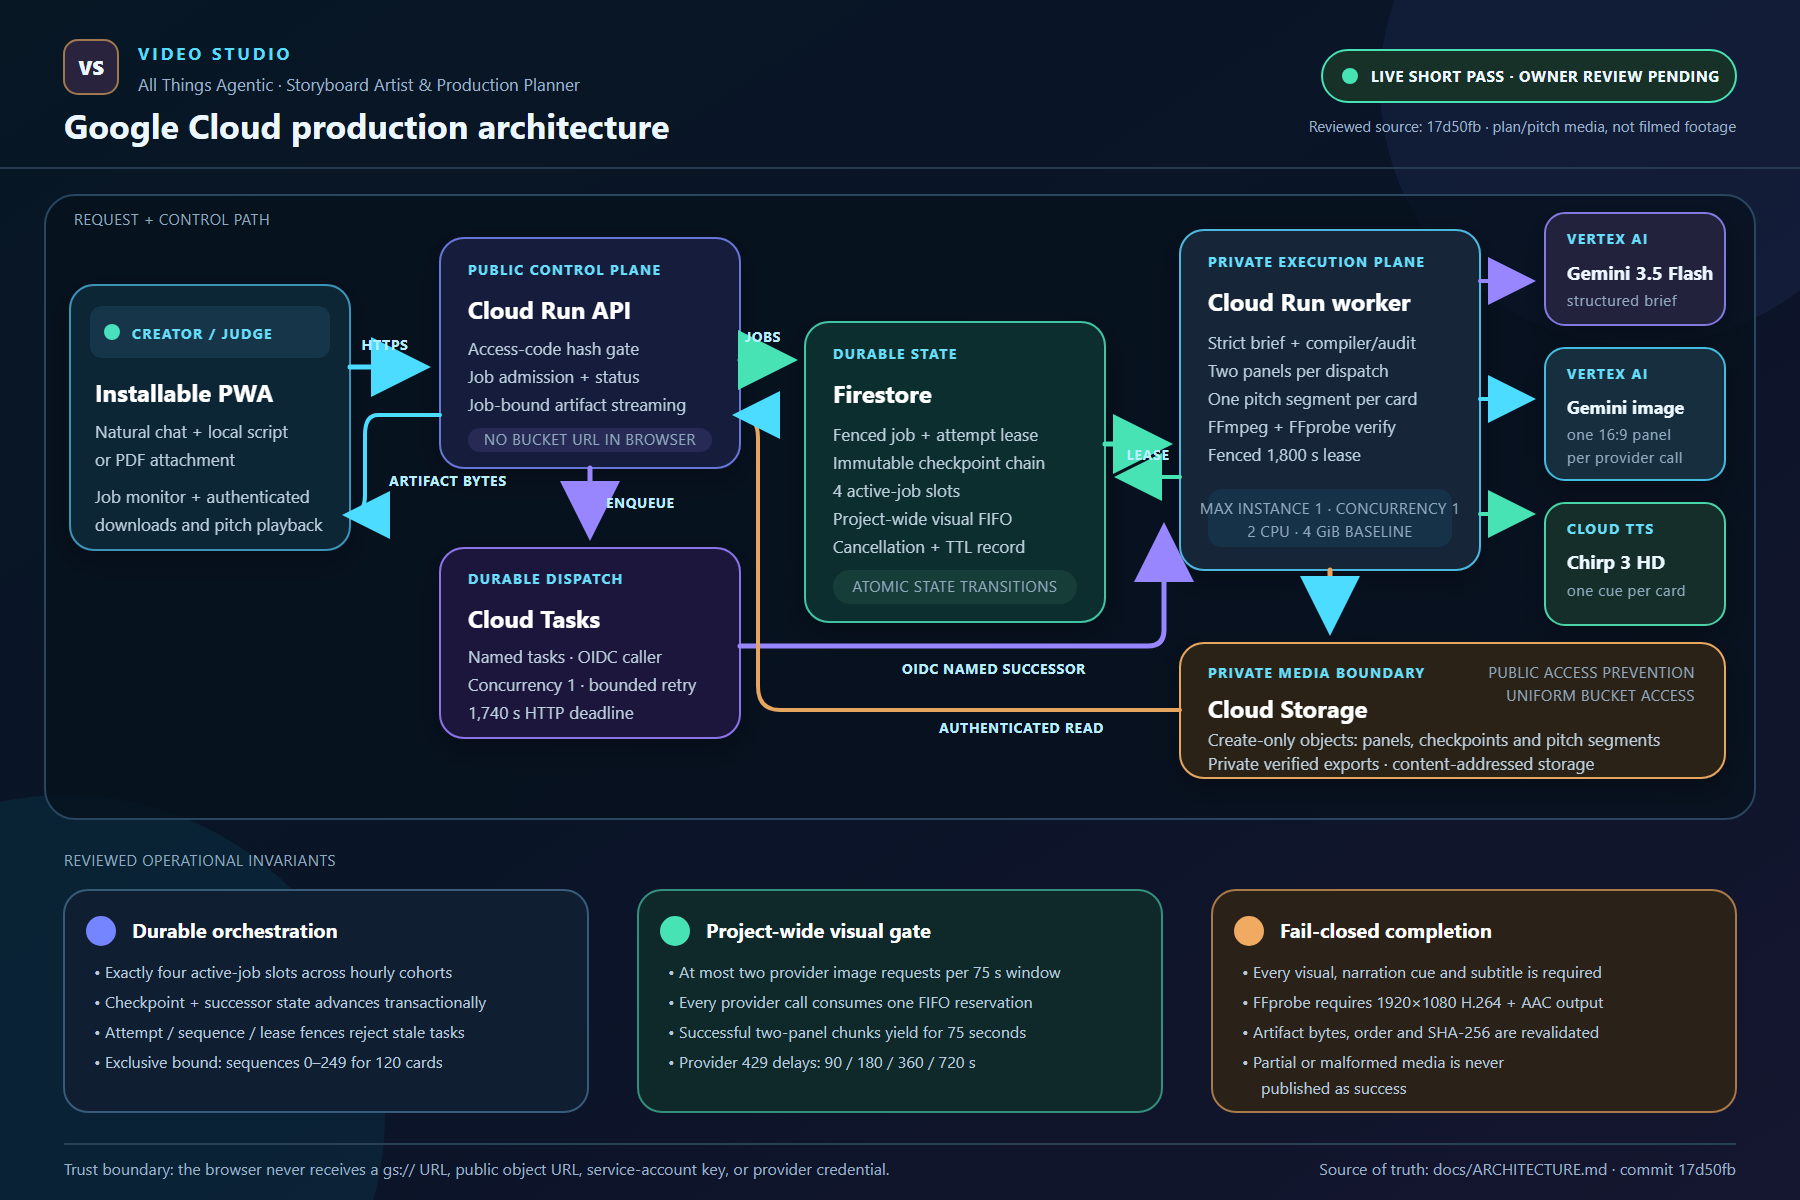
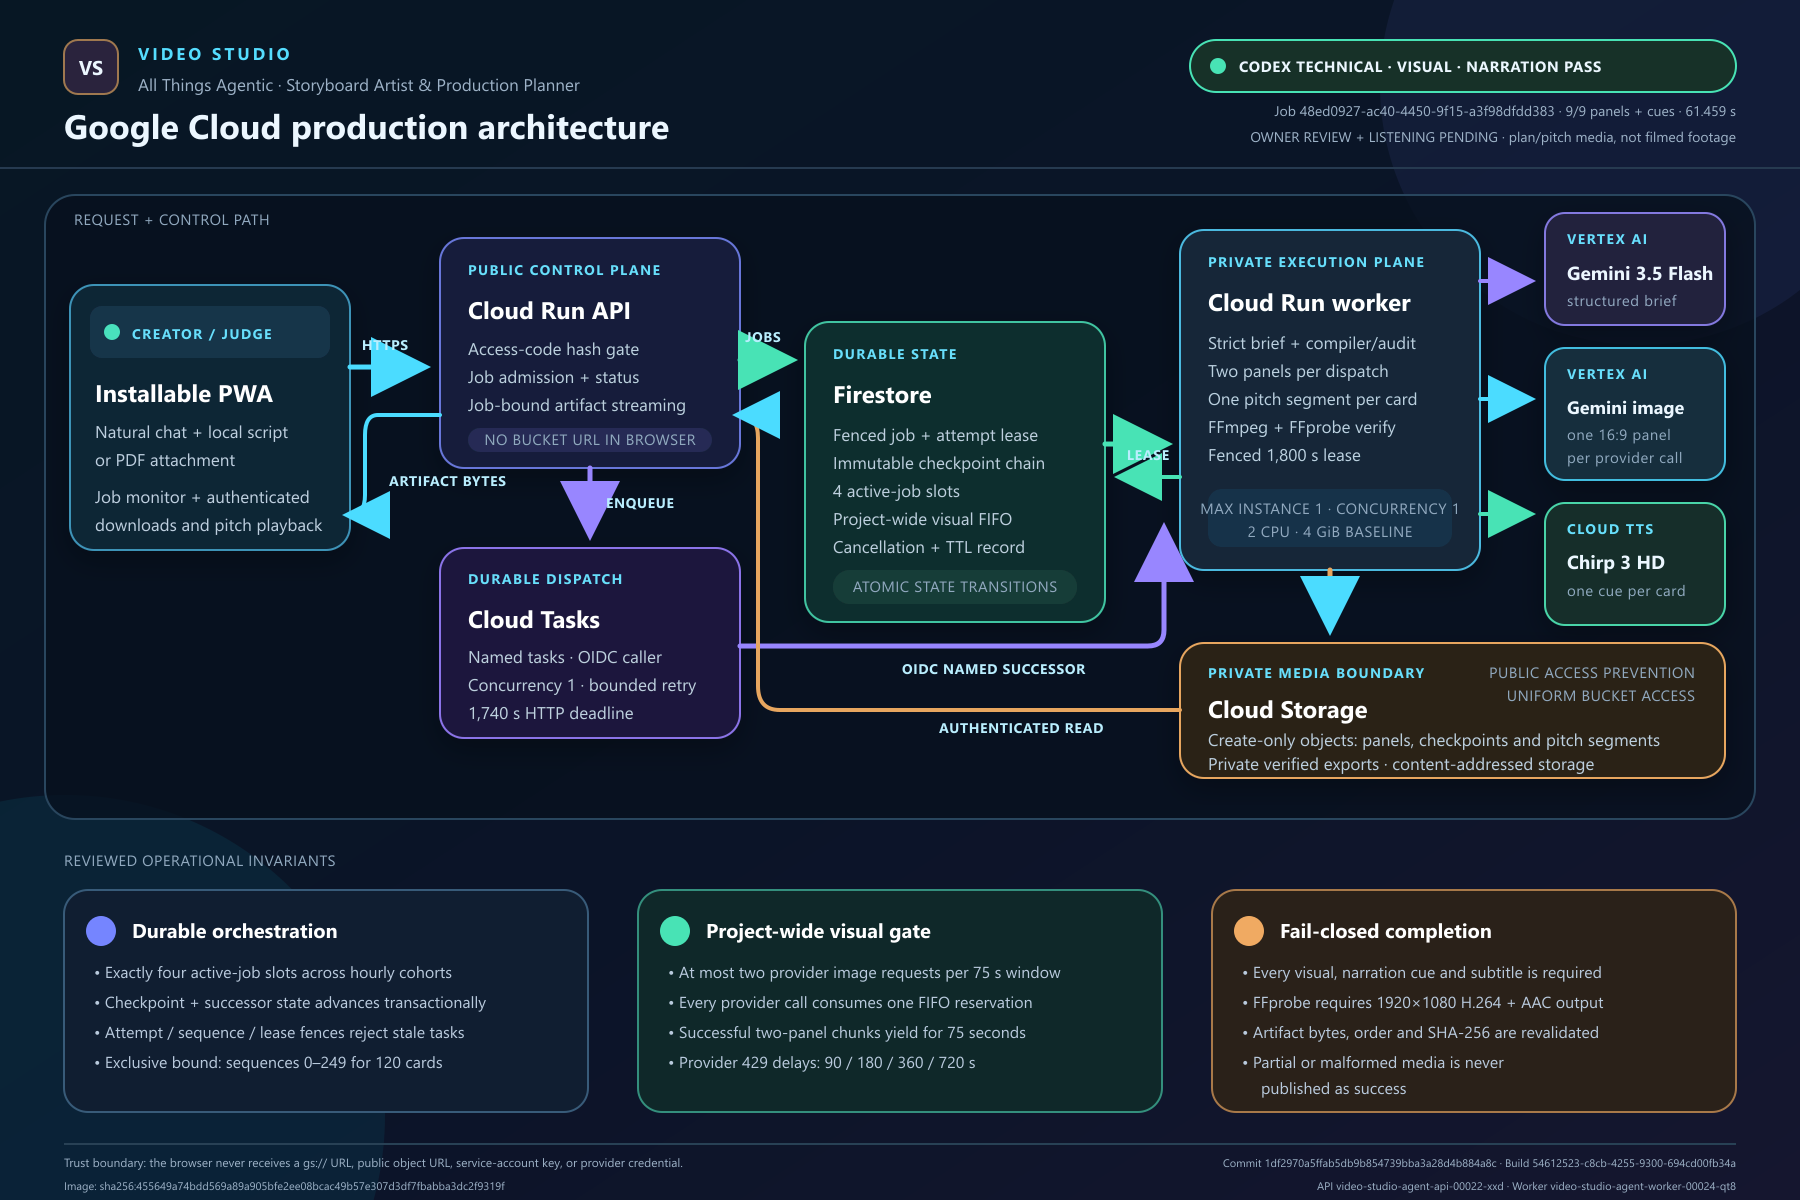
Refresh final live release evidence

diff --git a/tests/test_submission_assets.py b/tests/test_submission_assets.py
@@ -27,7 +27,8 @@ class SubmissionArchitectureAssetTests(unittest.TestCase):
             "Cloud Storage",
             "Gemini 3.5 Flash",
             "Chirp 3 HD",
-            "LIVE SHORT PASS · OWNER REVIEW PENDING",
+            "CODEX TECHNICAL · VISUAL · NARRATION PASS",
+            "OWNER REVIEW + LISTENING PENDING",
             "Partial or malformed media is never",
             "published as success",
         ):

diff --git a/README.md b/README.md
@@ -16,6 +16,13 @@ For the shortest owner/judge test, open [docs/START_HERE_TEST.md](docs/START_HER
 
 For cloud provisioning and deployment, use [docs/ALL_THINGS_AGENTIC_SETUP.md](docs/ALL_THINGS_AGENTIC_SETUP.md). Do not deploy from guesses: the private Cloud Storage bucket, IAM, Cloud Text-to-Speech API, environment variables, and worker resources are required for the corrected media path.
 
+## Try it
+
+- Live application: https://video-studio-agent-api-ajd6ejywsq-uc.a.run.app
+- Source repository: https://github.com/rmcmurrer81/video-studio-production-director
+
+The owner/judge access code is provided privately with the submission. It is never committed to this repository or shown in the demo recording.
+
 ## What the attachment flow accepts
 
 The **+ Attach** flow reads PDF, TXT, Markdown, Fountain, Screenplay, and Final Draft XML story files in the browser. Ordinary screenplays are included in full up to the displayed 147,000-character source allowance. Larger sources use explicitly labeled beginning/middle/end excerpts with exact extracted and included counts. PDF text extraction uses the vendored PDF.js module locally. Scanned/image-only PDFs are rejected with an OCR-needed message.
@@ -54,7 +61,7 @@ The first ETA is intentionally unavailable. Later estimates can use measured com
 
 Repository tests, injected clients, generated fixtures, and `/health` verify contracts or configuration only. They do **not** prove that a live Vertex image request, Chirp synthesis, Cloud Storage write, Cloud Tasks delivery, Cloud Run revision, or MP4 render succeeded.
 
-Live short-job technical acceptance passed on August 30, 2026. Job `a3449ab3-952c-4f1b-9a42-09a0ee2db2b8` recorded `execution.evidence_origin = live_google_provider_response`, 6/6 visual panels and narration cues, verified authenticated downloads, and a locally decoded 235.084-second 1920×1080 H.264/AAC MP4. This proves the deployed short workflow and media gates; it does not prove the held full-screenplay retry or replace owner review of illustration, story, continuity, and voice quality. The owner subsequently rejected the historical `The Last Jump` visual media because `SC02-SH03` contains an oversized, effectively disembodied foreground hand. Keep that run as technical evidence only; it is not approved demo media and must remain on visual-quality HOLD until a newly generated package passes owner review. Repeat this evidence standard for every future release and never invent or pre-fill evidence.
+The final release candidate completed a live cloud run on August 30, 2026. Job `48ed0927-ac40-4450-9f15-a3f98dfdd383` recorded `execution.evidence_origin = live_google_provider_response`, 9/9 visual panels, 9/9 narration cues, and 9/9 subtitle cues. Authenticated downloads were hash/byte verified, and the 61.459-second 1920×1080 H.264/AAC MP4 passed cloud FFprobe plus a local decode. Codex inspected every full-resolution panel for story match, extra figures, faces, hands, proportions, clothing, identity, and cross-scene continuity; the structured technical, visual, and narration review is PASS. The owner must still watch the complete MP4 with sound and record the final human acceptance decision before submission. This run used commit `1df2970a5ffab5db9b854739bba3a28d4b884a8c`, Cloud Build `54612523-c8cb-4255-9300-694cd00fb34a`, image digest `sha256:455649a74bdd569a89a905bfe2ee08bcac49b57e307d3df7fbabba3dc2f9319f`, API revision `video-studio-agent-api-00022-xxd`, and worker revision `video-studio-agent-worker-00024-qt8`. Historical rejected runs remain technical evidence only and are not demo media. Repeat this evidence standard for every future release and never invent or pre-fill evidence.
 
 ## Run the local contract checks
 

diff --git a/docs/ARCHITECTURE.md b/docs/ARCHITECTURE.md
@@ -1,6 +1,6 @@
 # Architecture
 
-The submission-ready rendered diagram is [all-things-agentic-architecture.png](all-things-agentic-architecture.png); its editable vector source is [all-things-agentic-architecture.svg](all-things-agentic-architecture.svg). It describes the reviewed repository source at commit `17d50fb`; the hosted public page matched the reviewed HTML byte-for-byte. Live short-job technical acceptance passed on August 30, 2026: job `a3449ab3-952c-4f1b-9a42-09a0ee2db2b8` completed 6/6 visual panels and narration cues and produced a locally decoded 235.084-second 1920×1080 H.264/AAC MP4. The diagram therefore says `LIVE SHORT PASS · OWNER REVIEW PENDING`; automated integrity gates do not replace human review of illustration, story, continuity, or voice quality.
+The submission-ready rendered diagram is [all-things-agentic-architecture.png](all-things-agentic-architecture.png); its editable vector source is [all-things-agentic-architecture.svg](all-things-agentic-architecture.svg). It describes reviewed repository commit `1df2970a5ffab5db9b854739bba3a28d4b884a8c`, built by Cloud Build `54612523-c8cb-4255-9300-694cd00fb34a` as image `sha256:455649a74bdd569a89a905bfe2ee08bcac49b57e307d3df7fbabba3dc2f9319f`, and deployed to API revision `video-studio-agent-api-00022-xxd` and worker revision `video-studio-agent-worker-00024-qt8`. Final short live job `48ed0927-ac40-4450-9f15-a3f98dfdd383` completed 9/9 visual panels, narration cues, and subtitle cues and produced a locally decoded 61.459-second 1920×1080 H.264/AAC MP4. Codex review passed the technical, visual, and narration gates; owner review and listening remain pending. This is plan/pitch media rather than filmed footage, and the recorded pass is not owner approval.
 
 ![Video Studio All Things Agentic Google Cloud architecture](all-things-agentic-architecture.png)
 

diff --git a/docs/ALL_THINGS_AGENTIC_SETUP.md b/docs/ALL_THINGS_AGENTIC_SETUP.md
@@ -255,7 +255,7 @@ The API additionally requires the access-code digest and Cloud Tasks dispatch va
 - successful authenticated panel and MP4 retrieval; and
 - truthful plan-only labels in the UI and exports.
 
-The August 30 short acceptance captured a real live-provider job ID, verified artifact hashes, timing, and decoded media evidence. Before the final release freeze, also capture the deployed revision names, immutable container digest, and cost evidence that are available to the operator. Do not extend the short-job proof to held full-screenplay or subjective owner-review claims, and never replace missing proof with a fabricated receipt.
+Final short live job `48ed0927-ac40-4450-9f15-a3f98dfdd383` ran from reviewed commit `1df2970a5ffab5db9b854739bba3a28d4b884a8c`, Cloud Build `54612523-c8cb-4255-9300-694cd00fb34a`, and immutable image `sha256:455649a74bdd569a89a905bfe2ee08bcac49b57e307d3df7fbabba3dc2f9319f`, deployed as API revision `video-studio-agent-api-00022-xxd` and worker revision `video-studio-agent-worker-00024-qt8`. It completed 9/9 panels, narration cues, and subtitle cues and produced a decoded 61.459-second 1920×1080 H.264/AAC MP4. Codex technical, visual, and narration review passed; owner review and listening remain pending. Do not extend this short-job proof to a held full-screenplay or claim owner approval, and never replace missing proof with a fabricated receipt.
 
 ## Primary Google references
 

diff --git a/docs/DEMO_SUBMISSION_CHECKLIST.md b/docs/DEMO_SUBMISSION_CHECKLIST.md
@@ -126,7 +126,7 @@ If any required panel or MP4 item fails, the release remains on hold. A historic
 - [ ] Hosted demo URL resolves and owner/judge code instructions are clear.
 - [ ] Demo video is accessible to judges and matches the deployed revision.
 - [ ] Description names only Google services actually demonstrated.
-- [ ] Upload `docs/all-things-agentic-architecture.png` as the architecture diagram; confirm its `LIVE SHORT PASS · OWNER REVIEW PENDING` label matches the verified short-job receipt and does not imply subjective owner approval. Keep its SVG source, setup procedure, test command, license, and START HERE acceptance path easy to find.
+- [ ] Upload `docs/all-things-agentic-architecture.png` as the architecture diagram; confirm its `CODEX TECHNICAL · VISUAL · NARRATION PASS` label matches the final 9/9 live job and its `OWNER REVIEW + LISTENING PENDING` line does not imply owner approval. Keep its SVG source, setup procedure, test command, license, and START HERE acceptance path easy to find.
 - [ ] The repository is public only when the owner is ready; no secret was added during the visibility change.
 - [ ] Every submitted link was reopened and the final text reread before the organizer cutoff.
 
